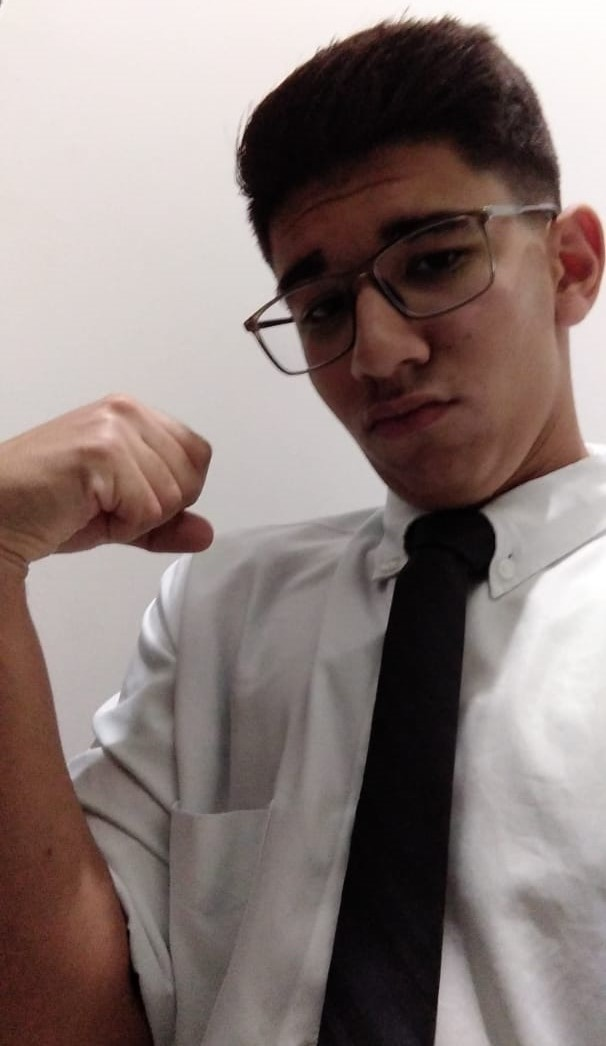
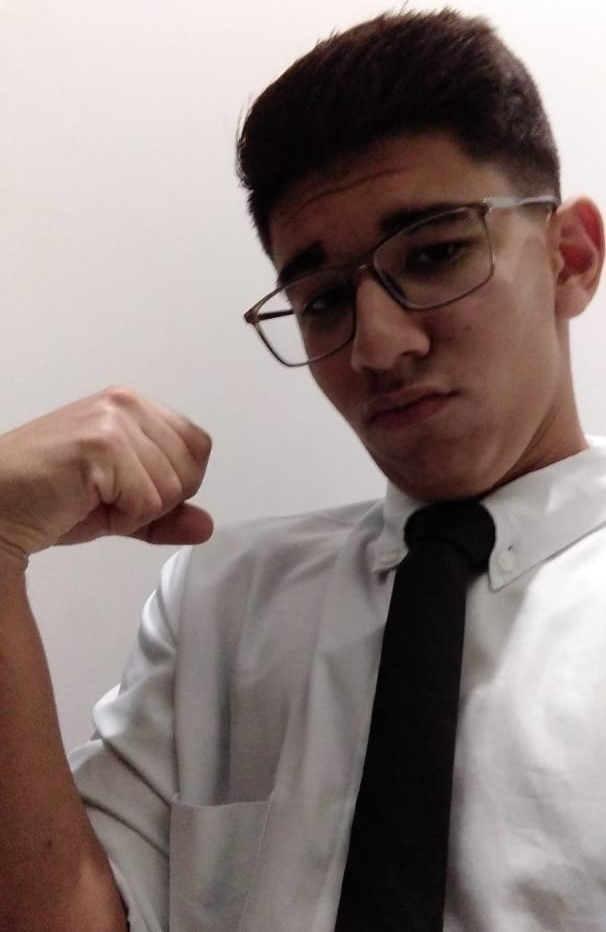
update

diff --git a/CSS/estudantes.css b/CSS/estudantes.css
@@ -76,6 +76,8 @@ main {
     display: flex;
     position: relative;
     top: 10vh;
+    width: 100%;
+    height: 80vh;
 }
 
 #img_descricao_fotos img {
